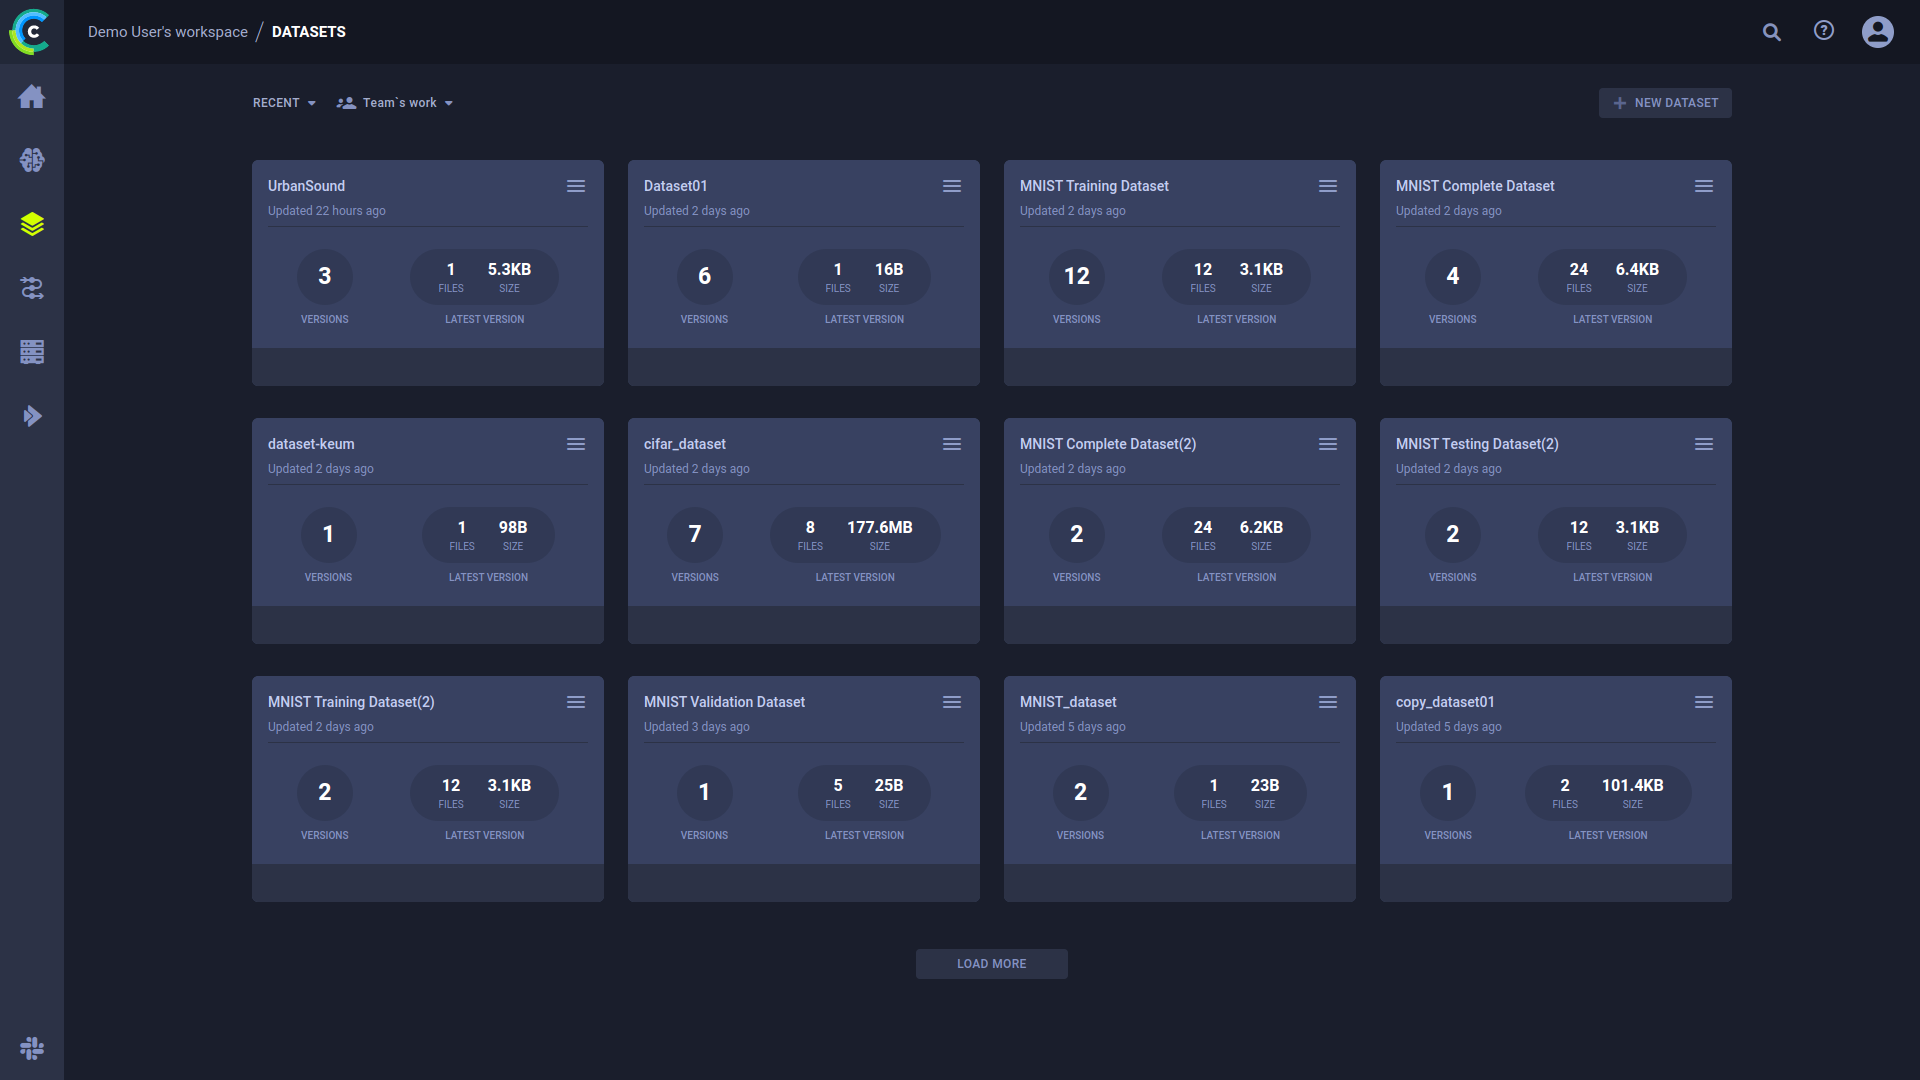
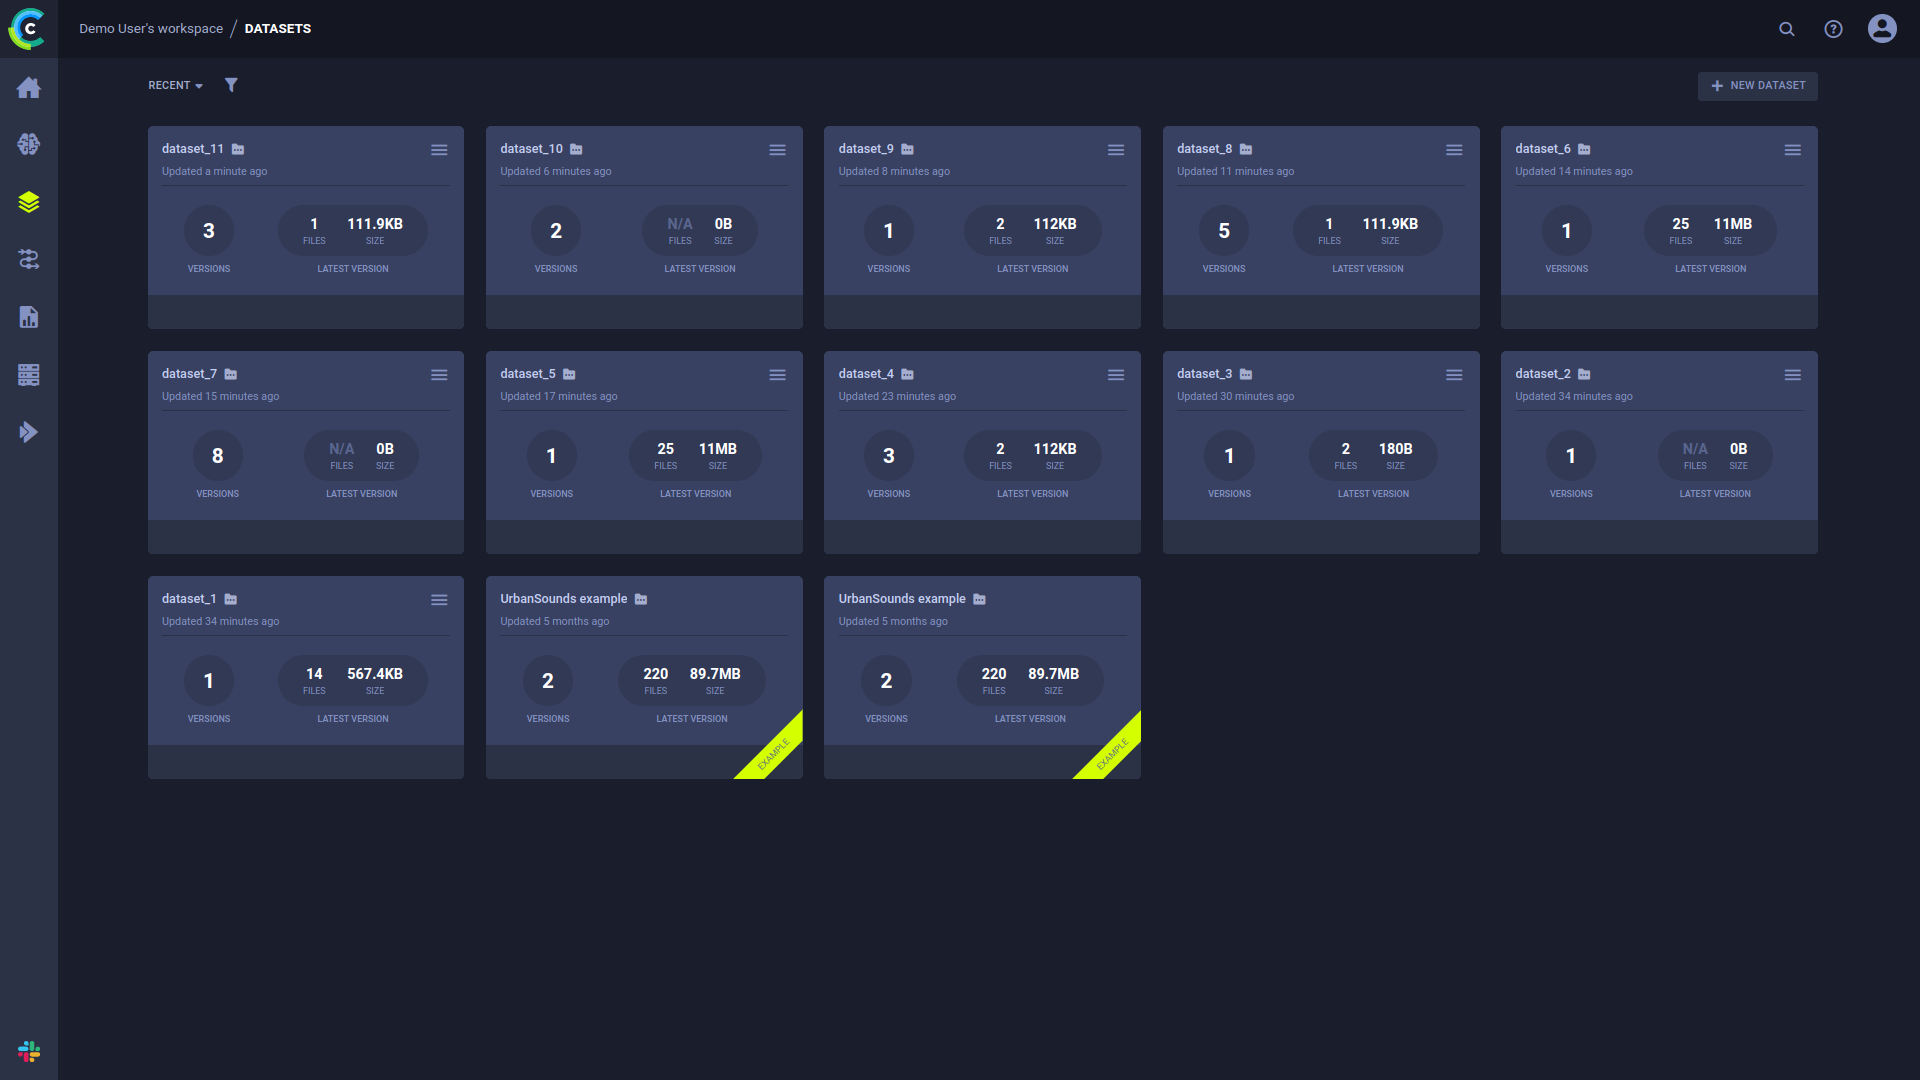
Add tag filters

diff --git a/docs/webapp/pipelines/webapp_pipeline_page.md b/docs/webapp/pipelines/webapp_pipeline_page.md
@@ -6,7 +6,15 @@ Use the **Pipelines** Page to navigate between and manage pipelines. The page sh
 [ClearML Pipelines](../../pipelines/pipelines.md).
 
 Click on a pipeline card to navigate to its [Pipeline Runs Table](webapp_pipeline_table.md), where you can view the 
-pipeline structure, configuration and outputs for all of the pipeline’s runs, as well as create new runs.
+pipeline structure, configuration, and outputs of all the pipeline’s runs, as well as create new runs.
+
+Filter the pipelines to find the one you’re looking for more easily. These filters can be applied by clicking <img src="/docs/latest/icons/ico-filter-off.svg" alt="Filter" className="icon size-md" />:
+* My Work - Show only pipelines that you created
+* Tags - Choose which tags to filter by from a list of tags used in the pipelines.
+  * Filter by multiple tag values using the **ANY** or **ALL** options, which correspond to the logical "AND" and "OR" 
+  respectively. These options appear on the top of the tag list.
+  * Filter by the absence of a tag (logical "NOT") by clicking its checkbox twice. An X will appear in the tag's checkbox.
+
 
 ![Pipelines page](../../img/webapp_pipeline_table.png)
 

diff --git a/docs/hyperdatasets/webapp/webapp_datasets.md b/docs/hyperdatasets/webapp/webapp_datasets.md
@@ -7,6 +7,13 @@ Use the Hyper-Datasets Page to navigate between and manage hyper-datasets.
 Click on a Hyper-Dataset card to open the dataset’s [version list](webapp_datasets_versioning.md), where you can view 
 and manage the dataset versions' lineage and contents. 
 
+Filter the hyper-datasets to find the one you’re looking for more easily. These filters can be applied by clicking <img src="/docs/latest/icons/ico-filter-off.svg" alt="Filter" className="icon size-md" />:
+* My Work - Show only hyper-datasets that you created
+* Tags - Choose which tags to filter by from a list of tags used in the hyper-datasets.
+  * Filter by multiple tag values using the **ANY** or **ALL** options, which correspond to the logical "AND" and "OR" 
+  respectively. These options appear on the top of the tag list.
+  * Filter by the absence of a tag (logical "NOT") by clicking its checkbox twice. An X will appear in the tag's checkbox.
+
 
 ![Hyper-Dataset page](../../img/hyperdatasets/datasets_01.png)
 

diff --git a/docs/webapp/datasets/webapp_dataset_page.md b/docs/webapp/datasets/webapp_dataset_page.md
@@ -13,6 +13,13 @@ for all datasets created using [ClearML Data](../../clearml_data/clearml_data.md
 Click on a dataset card to navigate to its [Version List](webapp_dataset_viewing.md), where you can view the 
 dataset versions' lineage and contents. 
 
+Filter the datasets to find the one you’re looking for more easily. These filters can be applied by clicking <img src="/docs/latest/icons/ico-filter-off.svg" alt="Filter" className="icon size-md" />:
+* My Work - Show only datasets that you created
+* Tags - Choose which tags to filter by from a list of tags used in the datasets.
+  * Filter by multiple tag values using the **ANY** or **ALL** options, which correspond to the logical "AND" and "OR" 
+  respectively. These options appear on the top of the tag list.
+  * Filter by the absence of a tag (logical "NOT") by clicking its checkbox twice. An X will appear in the tag's checkbox.
+
 ![Dataset page](../../img/webapp_dataset_page.png)
 
 
